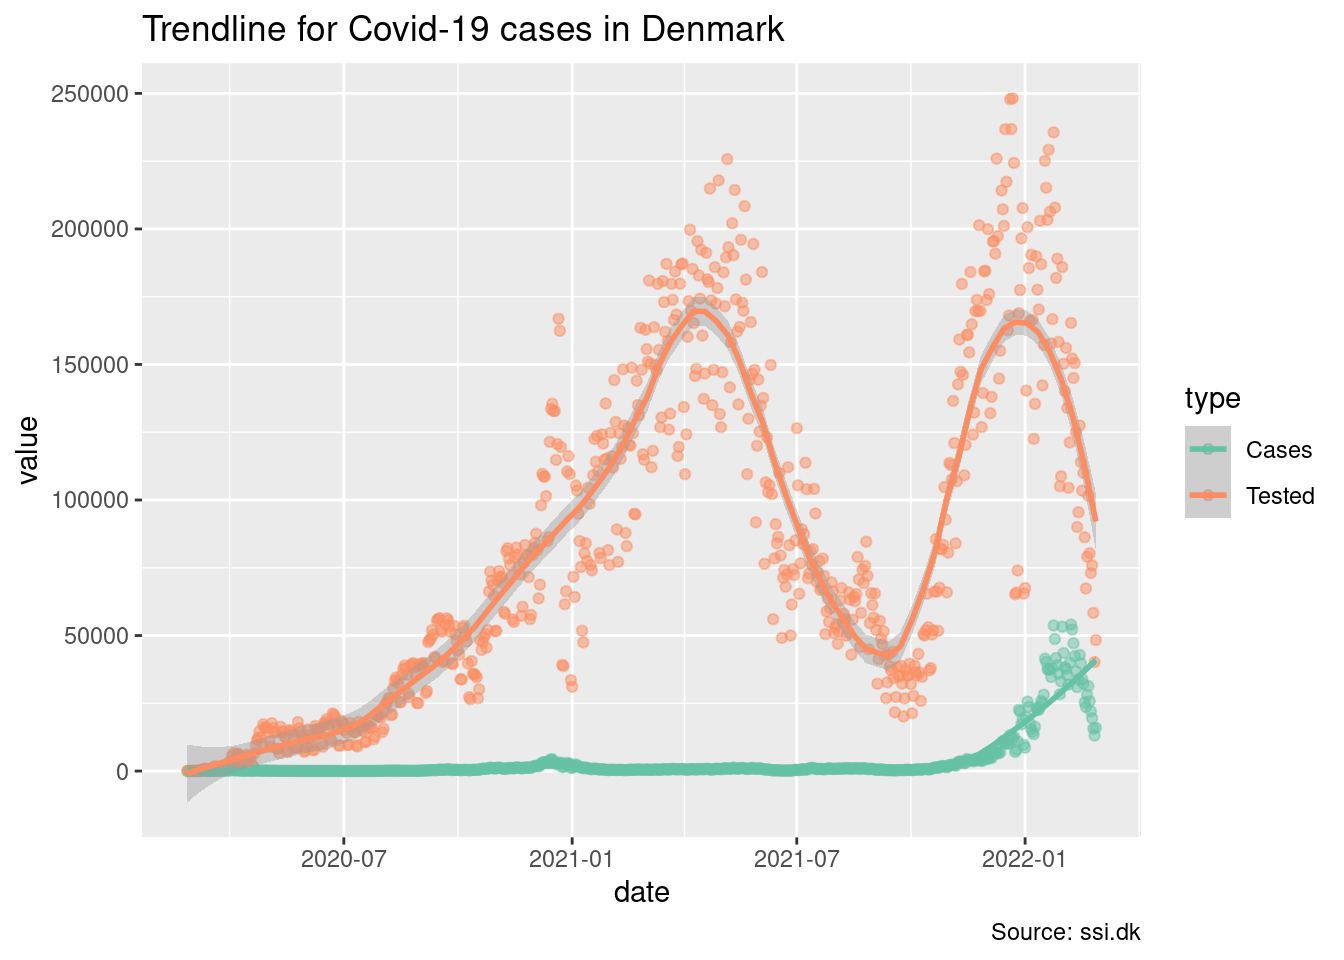
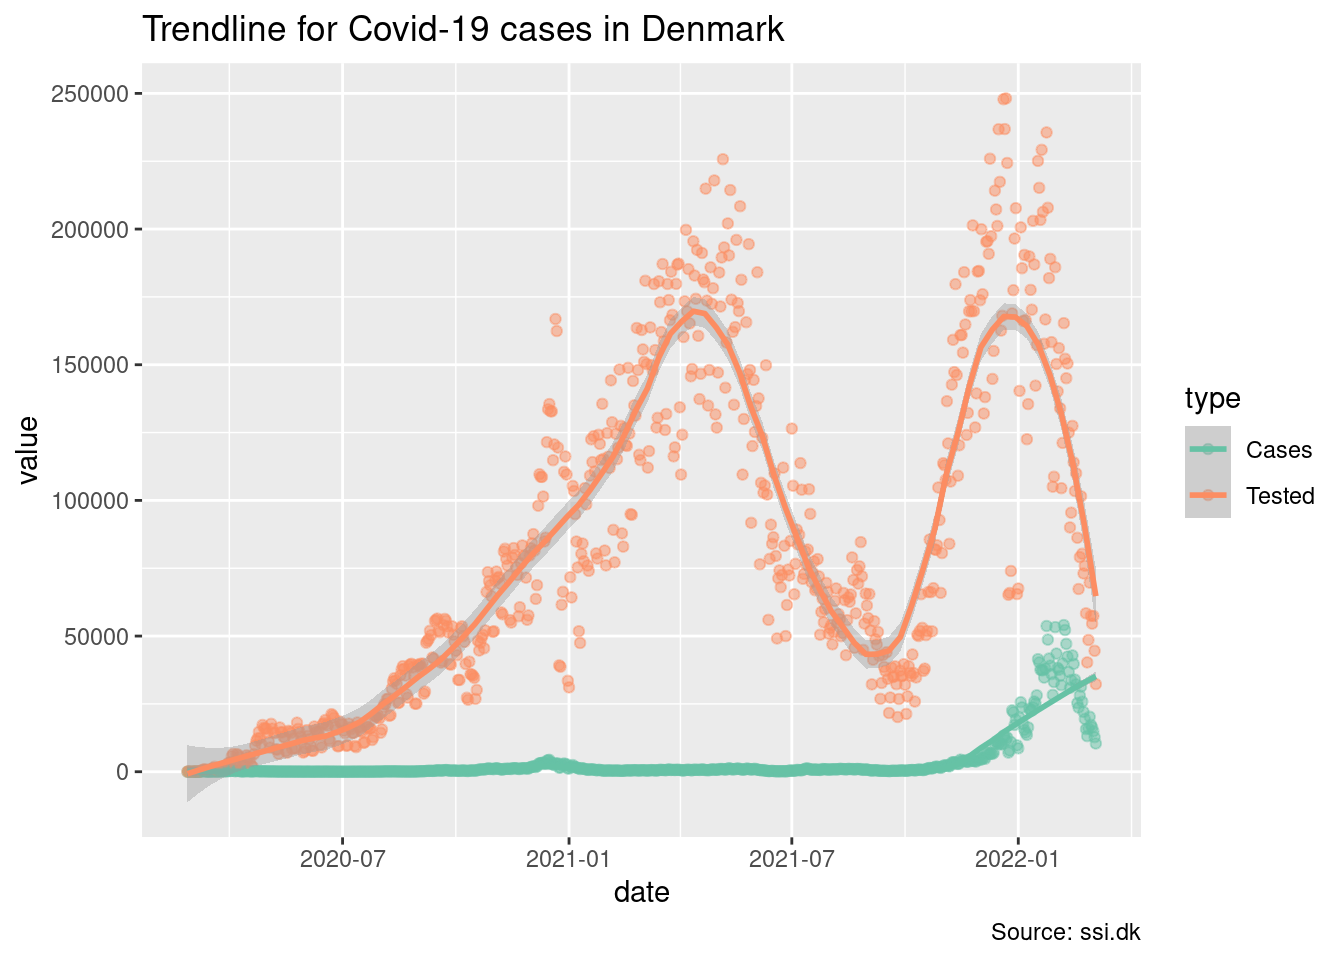
2022-03-07

diff --git a/docs/index.html b/docs/index.html
@@ -10,7 +10,7 @@
 
 
 
-<meta name="date" content="2022-03-01" />
+<meta name="date" content="2022-03-07" />
 
 <title>Covid-19 Stats for Denmark</title>
 
@@ -261,7 +261,7 @@ $(document).ready(function () {
 
 
 <h1 class="title toc-ignore">Covid-19 Stats for Denmark</h1>
-<h4 class="date">2022-03-01</h4>
+<h4 class="date">2022-03-07</h4>
 
 </div>
 
@@ -308,7 +308,7 @@ $(document).ready(function () {
 <pre class="r"><code>library(tidyverse)
 library(lubridate)</code></pre>
 <p>SSI’s data is in a zip file. We unpack this zip file into a directory of the general form <code>YYYY-MM-DD</code>. Lets set up a name for the current directory we want to grab data from</p>
-<pre class="r"><code>date &lt;- &quot;2022-03-01&quot;</code></pre>
+<pre class="r"><code>date &lt;- &quot;2022-03-07&quot;</code></pre>
 </div>
 <div id="ingesting-data" class="section level2">
 <h2>Ingesting data</h2>
@@ -350,7 +350,7 @@ library(lubridate)</code></pre>
                                       ))</code></pre>
 <pre><code>## ℹ Using &quot;&#39;,&#39;&quot; as decimal and &quot;&#39;.&#39;&quot; as grouping mark. Use `read_delim()` for more control.</code></pre>
 <pre class="r"><code>data</code></pre>
-<pre><code>## # A tibble: 6,991 × 9
+<pre><code>## # A tibble: 7,050 × 9
 ##    Region      Prøvetagningsdato Køn   `Bekræftede tilfælde…`  Døde Indlæggelser
 ##    &lt;fct&gt;       &lt;date&gt;            &lt;fct&gt;                  &lt;dbl&gt; &lt;dbl&gt;        &lt;dbl&gt;
 ##  1 Sjælland    2020-02-26        M                          1     0            0
@@ -363,7 +363,7 @@ library(lubridate)</code></pre>
 ##  8 Hovedstaden 2020-03-03        F                          1     0            0
 ##  9 Hovedstaden 2020-03-03        M                          3     0            1
 ## 10 Hovedstaden 2020-03-04        M                          2     0            0
-## # … with 6,981 more rows, and 3 more variables: `Kummuleret antal døde` &lt;dbl&gt;,
+## # … with 7,040 more rows, and 3 more variables: `Kummuleret antal døde` &lt;dbl&gt;,
 ## #   `Kummuleret antal bekræftede tilfælde` &lt;dbl&gt;,
 ## #   `Kummuleret antal indlæggelser` &lt;dbl&gt;</code></pre>
 <p>We certainly don’t want to work with danish-named columns. Rather, we want small descriptive names which are easy to type. We send our dataset through a <code>rename</code> pass for this.</p>
@@ -378,7 +378,7 @@ library(lubridate)</code></pre>
 # Cut the cumulative columns away
 data &lt;- data %&gt;% select(region, date, gender, cases, deaths, hospitalizations)
 data</code></pre>
-<pre><code>## # A tibble: 6,991 × 6
+<pre><code>## # A tibble: 7,050 × 6
 ##    region      date       gender cases deaths hospitalizations
 ##    &lt;fct&gt;       &lt;date&gt;     &lt;fct&gt;  &lt;dbl&gt;  &lt;dbl&gt;            &lt;dbl&gt;
 ##  1 Sjælland    2020-02-26 M          1      0                0
@@ -391,7 +391,7 @@ data</code></pre>
 ##  8 Hovedstaden 2020-03-03 F          1      0                0
 ##  9 Hovedstaden 2020-03-03 M          3      0                1
 ## 10 Hovedstaden 2020-03-04 M          2      0                0
-## # … with 6,981 more rows</code></pre>
+## # … with 7,040 more rows</code></pre>
 <p>Provide a low cut-off. We are interested in the recent period with Omicron, rather than the full duration of Covid-19.</p>
 <pre class="r"><code>lo_cutoff &lt;- &#39;2021-09-01&#39;</code></pre>
 <p>The high end of that cutoff, we set to two days before the maximal date in our data set</p>
@@ -405,7 +405,7 @@ data</code></pre>
 # Put this into the summary
 summary &lt;- data
 summary</code></pre>
-<pre><code>## # A tibble: 1,790 × 6
+<pre><code>## # A tibble: 1,850 × 6
 ##    region      date       gender cases deaths hospitalizations
 ##    &lt;fct&gt;       &lt;date&gt;     &lt;fct&gt;  &lt;dbl&gt;  &lt;dbl&gt;            &lt;dbl&gt;
 ##  1 Hovedstaden 2021-09-01 F        215      0                7
@@ -418,7 +418,7 @@ summary</code></pre>
 ##  8 Nordjylland 2021-09-01 M         16      1                2
 ##  9 Sjælland    2021-09-01 M         39      0                3
 ## 10 Syddanmark  2021-09-01 M         41      0                1
-## # … with 1,780 more rows</code></pre>
+## # … with 1,840 more rows</code></pre>
 </div>
 <div id="weekly-key-figures-split-by-age" class="section level3">
 <h3>Weekly key figures split by age</h3>
@@ -443,7 +443,7 @@ summary</code></pre>
                         tested = &#39;Antal testede&#39;,
                         cases = &#39;Antal positive&#39;)
 data</code></pre>
-<pre><code>## # A tibble: 958 × 7
+<pre><code>## # A tibble: 967 × 7
 ##    week     ageGroup tested_100k cases_100k hospitalized_100k tested cases
 ##    &lt;chr&gt;    &lt;fct&gt;          &lt;dbl&gt;      &lt;dbl&gt;             &lt;dbl&gt;  &lt;dbl&gt; &lt;dbl&gt;
 ##  1 2020-W04 00-02              0          0                 0      0     0
@@ -456,7 +456,7 @@ data</code></pre>
 ##  8 2020-W04 65-79              0          0                 0      0     0
 ##  9 2020-W04 80+                0          0                 0      0     0
 ## 10 2020-W05 65-79              0          0                 0      1     0
-## # … with 948 more rows</code></pre>
+## # … with 957 more rows</code></pre>
 <p>Take a look at the <code>week</code> column. It reports a year, and a week number. We’ll need to handle this, by converting this into a date. We’ll do that by defining a fixup function. If we have a string such as <code>2020-W04</code>, it means the 4th week of 2020. To get a date, we need a day inside the week to use as the day-of-week. So we turn the string into <code>2020-W04-1</code>, then send it through <code>strptime()</code>, a general time-parsing function.</p>
 <pre class="r"><code>fixup_week &lt;- function(s) {
     # For strptime to do its work correctly, it must know a day of the week. Here, we
@@ -509,15 +509,15 @@ data</code></pre>
 ##     lau1 name       `Bekræftede ti…` Incidens cases incidence tested tested_100k
 ##    &lt;dbl&gt; &lt;fct&gt;                 &lt;dbl&gt;    &lt;dbl&gt; &lt;dbl&gt;     &lt;dbl&gt;  &lt;dbl&gt;       &lt;dbl&gt;
 ##  1   411 &quot;&quot;                        0       NA     0         0     92      101000
-##  2   101 &quot;Københav…           346783    54040 11654      1816 657780      103000
-##  3   147 &quot;Frederik…            53078    51397  2038      1973 112307      109000
-##  4   151 &quot;Ballerup&quot;            25487    51711   952      1932  50168      102000
-##  5   153 &quot;Brøndby&quot;             19643    55044   570      1597  36244      102000
-##  6   155 &quot;Dragør&quot;               7418    50906   287      1970  14576      100000
-##  7   157 &quot;Gentofte&quot;            36499    49350  1328      1796  76162      103000
-##  8   159 &quot;Gladsaxe&quot;            36072    52152  1322      1911  72252      104000
-##  9   161 &quot;Glostrup&quot;            12290    52474   371      1584  24450      104000
-## 10   163 &quot;Herlev&quot;              15788    54842   539      1872  29843      104000
+##  2   101 &quot;Københav…           353261    55050  8193      1277 658429      103000
+##  3   147 &quot;Frederik…            54358    52636  1522      1474 112476      109000
+##  4   151 &quot;Ballerup&quot;            26149    53055   743      1507  50223      102000
+##  5   153 &quot;Brøndby&quot;             19988    56011   452      1267  36291      102000
+##  6   155 &quot;Dragør&quot;               7603    52175   241      1654  14590      100000
+##  7   157 &quot;Gentofte&quot;            37360    50514   975      1318  76282      103000
+##  8   159 &quot;Gladsaxe&quot;            36907    53359  1045      1511  72334      105000
+##  9   161 &quot;Glostrup&quot;            12576    53695   355      1516  24474      104000
+## 10   163 &quot;Herlev&quot;              16112    55968   438      1521  29871      104000
 ## # … with 89 more rows, and 3 more variables: tested_1w &lt;dbl&gt;,
 ## #   tested_100k_1w &lt;dbl&gt;, population &lt;dbl&gt;</code></pre>
 <pre class="r"><code>muncipalities &lt;- data</code></pre>
@@ -699,21 +699,21 @@ muncipalities$incidence_type &lt;- ifelse(muncipalities$incidence_z &lt; 0, &quo
 muncipalities$rate_z &lt;- round(muncipalities$rate - mean(muncipalities$rate), 5)
 muncipalities$rate_type &lt;- ifelse(muncipalities$rate_z &lt; 0, &quot;Below mean&quot;, &quot;Above mean&quot;)
 muncipalities$rate</code></pre>
-<pre><code>##  [1] 0.0000000 0.2942038 0.3127206 0.2680180 0.2631579 0.2890232 0.2861452
-##  [8] 0.2785504 0.2294372 0.2651254 0.2809633 0.2583219 0.2477406 0.3008394
-## [15] 0.2910610 0.2425558 0.2750809 0.2768595 0.2906562 0.2946693 0.2706821
-## [22] 0.2748073 0.2560017 0.2715232 0.3106212 0.2844331 0.2946046 0.2874268
-## [29] 0.2718974 0.2624660 0.3128761 0.2471264 0.2878241 0.2909712 0.3117678
-## [36] 0.3023504 0.3293263 0.3149300 0.3023700 0.3211722 0.3392070 0.3076923
-## [43] 0.2182941 0.2824049 0.2614267 0.2605872 0.2757987 0.3326197 0.3532028
-## [50] 0.3620362 0.3541481 0.2942683 0.2930059 0.2961593 0.3578248 0.3781175
-## [57] 0.3408521 0.3201727 0.3236498 0.2729790 0.3307985 0.3353175 0.3384615
-## [64] 0.3662310 0.3802817 0.2972242 0.3045990 0.3574990 0.3419159 0.3459465
-## [71] 0.3707045 0.3533820 0.3909091 0.3444851 0.3660977 0.3789474 0.3618090
-## [78] 0.3662301 0.3852573 0.3644227 0.4664032 0.3805447 0.3673734 0.3896421
-## [85] 0.3823163 0.3678325 0.3841975 0.3923059 0.3642971 0.3752483 0.4337900
-## [92] 0.3973828 0.3817346 0.3421053 0.4359457 0.3958884 0.3908175 0.3832042
-## [99] 0.4148848</code></pre>
+<pre><code>##  [1] 0.0000000 0.2558394 0.2843797 0.2482459 0.2389006 0.2789352 0.2514183
+##  [8] 0.2561902 0.2519517 0.2393443 0.2320769 0.2470080 0.2271415 0.2921311
+## [15] 0.2491409 0.1924883 0.2350821 0.2233796 0.2788181 0.2832009 0.2522639
+## [22] 0.2422196 0.2375000 0.2594440 0.3004372 0.2735918 0.2891738 0.2611789
+## [29] 0.2764496 0.2487127 0.2940390 0.2946176 0.2632221 0.2785894 0.2991785
+## [36] 0.2846021 0.3304105 0.2826316 0.2766186 0.3127355 0.3144857 0.2741641
+## [43] 0.2121424 0.2620301 0.2561289 0.2681376 0.2862119 0.3215947 0.3754539
+## [50] 0.3389183 0.3471475 0.2942079 0.2776463 0.2727683 0.3206861 0.3447905
+## [57] 0.3707250 0.3026135 0.3201685 0.2783436 0.3296255 0.3360744 0.2851240
+## [64] 0.3778664 0.3876092 0.2922668 0.2813960 0.3832724 0.3405179 0.3250798
+## [71] 0.3610275 0.3548616 0.4040194 0.3747535 0.3526276 0.3666803 0.3525961
+## [78] 0.3297935 0.3860841 0.3515819 0.4414894 0.3628543 0.3441631 0.3654401
+## [85] 0.3836344 0.3757443 0.3836590 0.3951952 0.3569599 0.3804678 0.3625192
+## [92] 0.3643901 0.3535354 0.2722513 0.4037037 0.3718331 0.3596620 0.3451714
+## [99] 0.3689516</code></pre>
 <pre class="r"><code>ggplot(muncipalities %&gt;% mutate(name = fct_reorder(name, rate)), aes(x=name, y=rate)) +
   geom_bar(stat=&#39;identity&#39;, aes(fill=rate_type), width=.5)  +
   scale_colour_brewer(palette=&quot;Set2&quot;) +
@@ -741,7 +741,7 @@ muncipalities$rate</code></pre>
 popcount &lt;- read_data_2(&quot;./data/DS/2022121185617360647690FOLK1AM68563293012.csv&quot;)</code></pre>
 <pre><code>## ℹ Using &quot;&#39;,&#39;&quot; as decimal and &quot;&#39;.&#39;&quot; as grouping mark. Use `read_delim()` for more control.</code></pre>
 <pre><code>## Rows: 103 Columns: 4
-## ── Column specification ────────────────────────────────────────────────────────
+## ── Column specification ────────────────────────────────────────────────────────────────────────
 ## Delimiter: &quot;;&quot;
 ## chr (3): X1, X2, X3
 ## dbl (1): X4
@@ -773,15 +773,15 @@ popcount</code></pre>
 ##    name            incidence popcount
 ##    &lt;chr&gt;               &lt;dbl&gt;    &lt;dbl&gt;
 ##  1 &quot;&quot;                      0       NA
-##  2 &quot;København&quot;          1816   644987
-##  3 &quot;Frederiksberg&quot;      1973   103963
-##  4 &quot;Ballerup&quot;           1932    49228
-##  5 &quot;Brøndby&quot;            1597    35535
-##  6 &quot;Dragør&quot;             1970    14602
-##  7 &quot;Gentofte&quot;           1796    74154
-##  8 &quot;Gladsaxe&quot;           1911    69321
-##  9 &quot;Glostrup&quot;           1584    23519
-## 10 &quot;Herlev&quot;             1872    28861
+##  2 &quot;København&quot;          1277   644987
+##  3 &quot;Frederiksberg&quot;      1474   103963
+##  4 &quot;Ballerup&quot;           1507    49228
+##  5 &quot;Brøndby&quot;            1267    35535
+##  6 &quot;Dragør&quot;             1654    14602
+##  7 &quot;Gentofte&quot;           1318    74154
+##  8 &quot;Gladsaxe&quot;           1511    69321
+##  9 &quot;Glostrup&quot;           1516    23519
+## 10 &quot;Herlev&quot;             1521    28861
 ## # … with 89 more rows</code></pre>
 <p>Now, test correlation via Pearson:</p>
 <pre class="r"><code>plot(muncipalities$incidence, muncipalities$popcount)</code></pre>
@@ -791,13 +791,13 @@ popcount</code></pre>
 ##  Pearson&#39;s product-moment correlation
 ## 
 ## data:  muncipalities$incidence and muncipalities$popcount
-## t = -1.1335, df = 92, p-value = 0.26
+## t = -1.3953, df = 92, p-value = 0.1663
 ## alternative hypothesis: true correlation is not equal to 0
 ## 95 percent confidence interval:
-##  -0.31253967  0.08733946
+##  -0.33674835  0.06042597
 ## sample estimates:
 ##        cor 
-## -0.1173543</code></pre>
+## -0.1439535</code></pre>
 <p>Clearly, this argues there are no strong connection between population count, and the incidence in a given muncipality.</p>
 <p>Analyzing the rate shows there’s a connection between it and incidence, but this is more expected:</p>
 <pre class="r"><code>pairs(muncipalities %&gt;% select(incidence,popcount,rate))</code></pre>
@@ -807,17 +807,17 @@ popcount</code></pre>
 ##  Pearson&#39;s product-moment correlation
 ## 
 ## data:  muncipalities$incidence and muncipalities$rate
-## t = 14.244, df = 97, p-value &lt; 2.2e-16
+## t = 13.998, df = 97, p-value &lt; 2.2e-16
 ## alternative hypothesis: true correlation is not equal to 0
 ## 95 percent confidence interval:
-##  0.7463046 0.8774643
+##  0.7399093 0.8741370
 ## sample estimates:
-##       cor 
-## 0.8225332</code></pre>
+##      cor 
+## 0.817859</code></pre>
 <p>Summarize:</p>
 <pre class="r"><code>summary(muncipalities$rate)</code></pre>
 <pre><code>##    Min. 1st Qu.  Median    Mean 3rd Qu.    Max. 
-##  0.0000  0.2834  0.3149  0.3212  0.3662  0.4664</code></pre>
+##  0.0000  0.2657  0.2946  0.3063  0.3559  0.4415</code></pre>
 <pre class="r"><code>d &lt;- density(muncipalities$rate)
 plot(d)</code></pre>
 <p><img src="index_files/figure-html/muncipality-summary-1.png" width="672" /></p>

diff --git a/docs/core.html b/docs/core.html
@@ -10,7 +10,7 @@
 
 
 
-<meta name="date" content="2022-03-01" />
+<meta name="date" content="2022-03-07" />
 
 <title>Core Covid-19 Stats for Denmark</title>
 
@@ -261,7 +261,7 @@ $(document).ready(function () {
 
 
 <h1 class="title toc-ignore">Core Covid-19 Stats for Denmark</h1>
-<h4 class="date">2022-03-01</h4>
+<h4 class="date">2022-03-07</h4>
 
 </div>
 
@@ -325,7 +325,7 @@ rt_cases</code></pre>
 <pre class="r"><code>m_cases_timeseries_path &lt;- sprintf(&quot;%s/Municipality_cases_time_series.csv&quot;, path)
 m_cases_timeseries &lt;- readr::read_csv2(m_cases_timeseries_path)
 m_cases_timeseries</code></pre>
-<pre><code>## # A tibble: 734 × 101
+<pre><code>## # A tibble: 740 × 101
 ##    SampleDate Roskilde Copenhagen Aarhus Frederiksberg Kalundborg Middelfart
 ##    &lt;date&gt;        &lt;dbl&gt;      &lt;dbl&gt;  &lt;dbl&gt;         &lt;dbl&gt;      &lt;dbl&gt;      &lt;dbl&gt;
 ##  1 2020-02-26        1          0      0             0          0          0
@@ -338,7 +338,7 @@ m_cases_timeseries</code></pre>
 ##  8 2020-03-05        0          2      0             2          0          0
 ##  9 2020-03-06        0          0      0             0          0          0
 ## 10 2020-03-07        0          1      1             1          0          0
-## # … with 724 more rows, and 94 more variables: Gentofte &lt;dbl&gt;, Solrød &lt;dbl&gt;,
+## # … with 730 more rows, and 94 more variables: Gentofte &lt;dbl&gt;, Solrød &lt;dbl&gt;,
 ## #   Allerød &lt;dbl&gt;, Dragør &lt;dbl&gt;, Helsingør &lt;dbl&gt;, Hillerød &lt;dbl&gt;,
 ## #   Rudersdal &lt;dbl&gt;, Næstved &lt;dbl&gt;, Aalborg &lt;dbl&gt;, Vallensbæk &lt;dbl&gt;,
 ## #   Esbjerg &lt;dbl&gt;, Favrskov &lt;dbl&gt;, Frederikssund &lt;dbl&gt;, Furesø &lt;dbl&gt;,
@@ -351,7 +351,7 @@ m_cases_timeseries</code></pre>
   rename(date = `SampleDate`)
 
 m_cases_timeseries</code></pre>
-<pre><code>## # A tibble: 73,400 × 3
+<pre><code>## # A tibble: 74,000 × 3
 ##    date       Municipality  Cases
 ##    &lt;date&gt;     &lt;chr&gt;         &lt;dbl&gt;
 ##  1 2020-02-26 Roskilde          1
@@ -364,7 +364,7 @@ m_cases_timeseries</code></pre>
 ##  8 2020-02-26 Solrød            0
 ##  9 2020-02-26 Allerød           0
 ## 10 2020-02-26 Dragør            0
-## # … with 73,390 more rows</code></pre>
+## # … with 73,990 more rows</code></pre>
 <p>We use the same strategy for the tests:</p>
 <pre class="r"><code>m_tested_timeseries_path &lt;- sprintf(&quot;%s/Municipality_tested_persons_time_series.csv&quot;, path)
 m_tested_timeseries &lt;- readr::read_csv2(m_tested_timeseries_path)
@@ -375,7 +375,7 @@ m_tested_timeseries &lt;- m_tested_timeseries %&gt;%
 <pre class="r"><code>municipality &lt;- m_cases_timeseries %&gt;% left_join(m_tested_timeseries, by = c(&quot;date&quot;, &quot;Municipality&quot;))
 municipality &lt;- municipality %&gt;% mutate(Municipality = factor(Municipality))
 municipality</code></pre>
-<pre><code>## # A tibble: 73,400 × 4
+<pre><code>## # A tibble: 74,000 × 4
 ##    date       Municipality  Cases Tested
 ##    &lt;date&gt;     &lt;fct&gt;         &lt;dbl&gt;  &lt;dbl&gt;
 ##  1 2020-02-26 Roskilde          1      3
@@ -388,7 +388,7 @@ municipality</code></pre>
 ##  8 2020-02-26 Solrød            0      0
 ##  9 2020-02-26 Allerød           0      0
 ## 10 2020-02-26 Dragør            0      0
-## # … with 73,390 more rows</code></pre>
+## # … with 73,990 more rows</code></pre>
 </div>
 </div>
 <div id="plots-of-interest" class="section level2">
